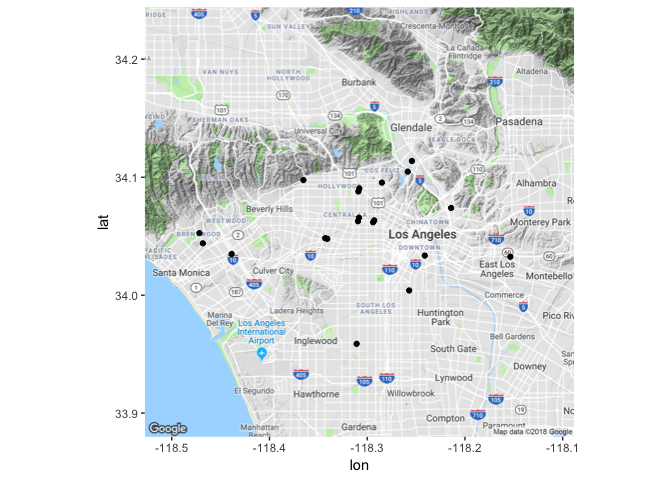
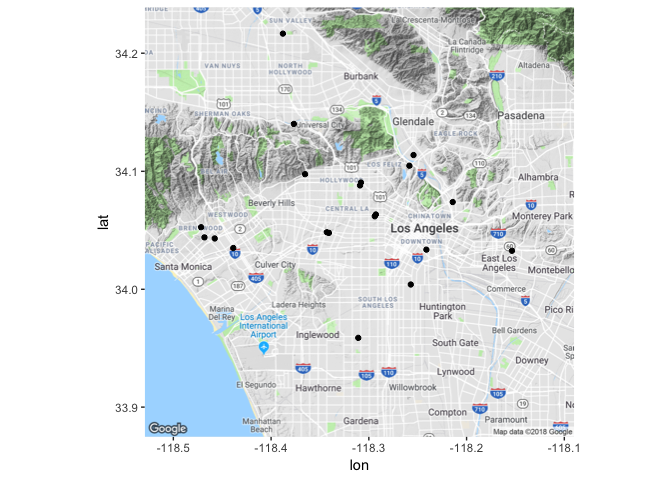
more cleanup

diff --git a/README.md b/README.md
@@ -61,31 +61,31 @@ salons_in_la <- business_search("beauty salon", "los angeles")
 glimpse(salons_in_la)
 #> Observations: 20
 #> Variables: 25
-#> $ id               <chr> "XNcjEN9M2kjChBaJioE3eQ", "yII2VaCD9MnKmNKqEz...
-#> $ alias            <chr> "margaritas-beauty-salon-los-angeles-3", "bri...
-#> $ name             <chr> "Margarita's Beauty Salon", "Brianna's Beauty...
-#> $ rating           <dbl> 3.5, 5.0, 4.5, 5.0, 5.0, 5.0, 4.0, 3.5, 5.0, ...
-#> $ review_count     <int> 24, 5, 7, 4, 92, 4, 7, 11, 9, 23, 7, 16, 297,...
-#> $ price            <chr> "$", "$", "$$", "$$", "$$", "$$", "$", "$", "...
-#> $ image_url        <chr> "https://s3-media2.fl.yelpcdn.com/bphoto/uXL5...
+#> $ business_id      <chr> "whbjQu04BvffC11CZfGEzA", "XNcjEN9M2kjChBaJio...
+#> $ alias            <chr> "magys-beauty-salon-los-angeles-2", "margarit...
+#> $ name             <chr> "Magys Beauty Salon", "Margarita's Beauty Sal...
+#> $ rating           <ord> 4.5, 3.5, 5, 5, 4.5, 5, 5, 5, 4, 3.5, 5, 5, 4...
+#> $ review_count     <int> 8, 23, 5, 48, 7, 4, 92, 4, 7, 11, 9, 9, 7, 24...
+#> $ price            <chr> "$$", "$", "$", "$$", "$$", "$$", "$$", "$$",...
+#> $ image_url        <chr> "https://s3-media4.fl.yelpcdn.com/bphoto/ZHK2...
 #> $ is_closed        <lgl> FALSE, FALSE, FALSE, FALSE, FALSE, FALSE, FAL...
-#> $ url              <chr> "https://www.yelp.com/biz/margaritas-beauty-s...
-#> $ category_aliases <list> ["hair", <"hair", "waxing", "eyelashservice"...
-#> $ category_titles  <list> ["Hair Salons", <"Hair Salons", "Waxing", "E...
-#> $ latitude         <dbl> 34.03502, 34.08803, 34.04836, 34.09760, 34.06...
-#> $ longitude        <dbl> -118.4387, -118.3090, -118.3430, -118.3652, -...
-#> $ distance_m       <dbl> 11200.409, 3156.545, 2464.888, 5687.579, 2641...
+#> $ url              <chr> "https://www.yelp.com/biz/magys-beauty-salon-...
+#> $ category_aliases <list> [<"hair", "hairremoval", "personalcare">, "h...
+#> $ category_titles  <list> [<"Hair Salons", "Hair Removal", "Personal C...
+#> $ latitude         <dbl> 34.21657, 34.03502, 34.08803, 34.04309, 34.04...
+#> $ longitude        <dbl> -118.3879, -118.4387, -118.3090, -118.4577, -...
+#> $ distance_m       <dbl> 18310.313, 11200.409, 3156.545, 11852.204, 24...
 #> $ transactions     <list> [<>, <>, <>, <>, <>, <>, <>, <>, <>, <>, <>,...
-#> $ address1         <chr> "2403 Sawtelle Blvd", "968 N Western Ave", "4...
-#> $ address2         <chr> "", "", "Ste B", "Ste B-200", "Fl 2", "Sola S...
-#> $ address3         <chr> "", "", "", "", "", "Ste 102, Studio 5", "", ...
+#> $ address1         <chr> "8031 Lankershim Blvd", "2403 Sawtelle Blvd",...
+#> $ address2         <chr> "", "", "", "", "Ste B", "Ste B-200", "Fl 2",...
+#> $ address3         <chr> "", "", "", "", "", "", "", "Ste 102, Studio ...
 #> $ city             <chr> "Los Angeles", "Los Angeles", "Los Angeles", ...
-#> $ zip_code         <chr> "90064", "90029", "90019", "90046", "90005", ...
+#> $ zip_code         <chr> "91605", "90064", "90029", "90025", "90019", ...
 #> $ state            <chr> "CA", "CA", "CA", "CA", "CA", "CA", "CA", "CA...
 #> $ country          <chr> "US", "US", "US", "US", "US", "US", "US", "US...
-#> $ display_address  <chr> "2403 Sawtelle Blvd, Los Angeles, CA 90064", ...
-#> $ phone            <chr> "+13104770119", "+13238484188", "+13239367830...
-#> $ display_phone    <chr> "(310) 477-0119", "(323) 848-4188", "(323) 93...
+#> $ display_address  <chr> "8031 Lankershim Blvd, Los Angeles, CA 91605"...
+#> $ phone            <chr> "+18187436944", "+13104770119", "+13238484188...
+#> $ display_phone    <chr> "(818) 743-6944", "(310) 477-0119", "(323) 84...
 ```
 
 The results include the longitude and latitude of each business, so you can use [*ggmap*](https://cran.r-project.org/web/packages/ggmap) to plot their locations.
@@ -96,7 +96,7 @@ library(magrittr)
 la <- salons_in_la %$%
   c(median(longitude), median(latitude))
 la_map <- get_map(la, zoom = 11)
-#> Source : https://maps.googleapis.com/maps/api/staticmap?center=34.062317,-118.308265&zoom=11&size=640x640&scale=2&maptype=terrain&language=en-EN
+#> Source : https://maps.googleapis.com/maps/api/staticmap?center=34.057281,-118.309928&zoom=11&size=640x640&scale=2&maptype=terrain&language=en-EN
 (map_plot_of_salons_in_la <- ggmap(la_map) + 
   geom_point(aes(longitude, latitude), data = salons_in_la)
 )
@@ -108,102 +108,138 @@ la_map <- get_map(la, zoom = 11)
 
 ![Map of Los Angeles, with businesses marked as points.](man/figures/README-ggmap-1.png)
 -->
-Once you have spotted an interesting business, make a note of the business ID from the `id` column as it is required as an argument for several of the other functions.
+You can use standard `dplyr` tools to filter for businesses that are interesting to you.
 
 ``` r
-arianna_hair_boutique_id <- salons_in_la %>% 
-  filter(name == "Arianna Hair Boutique") %>% 
-  pull(id)
+five_stars_and_cheap <- salons_in_la %>% 
+  filter(rating == 5, price == "$") 
 ```
 
-You can use the business ID with the `business_lookup()` to get more detailed information about that business, including opening hours.
+`business_lookup()` gives you more detailed information about businesses, including opening hours. It costs 1 API call per business, so do your filtering before you call it.
 
 ``` r
-arianna_hair_boutique_details <- business_lookup(arianna_hair_boutique_id)
-glimpse(arianna_hair_boutique_details)
-#> Observations: 1
-#> Variables: 29
-#> $ id                    <chr> "4gV99Gc24G3ZGOwZfwPh4g"
-#> $ alias                 <chr> "arianna-hair-boutique-los-angeles"
-#> $ name                  <chr> "Arianna Hair Boutique"
-#> $ rating                <dbl> 4.5
-#> $ review_count          <int> 297
-#> $ price                 <chr> "$$"
-#> $ image_url             <chr> "https://s3-media1.fl.yelpcdn.com/bphoto...
-#> $ is_closed             <lgl> FALSE
-#> $ url                   <chr> "https://www.yelp.com/biz/arianna-hair-b...
-#> $ category_aliases      <list> [<"hair", "eyelashservice", "othersalon...
-#> $ category_titles       <list> [<"Hair Salons", "Eyelash Service", "Na...
-#> $ latitude              <dbl> 34.0619
-#> $ longitude             <dbl> -118.2939
-#> $ distance_m            <dbl> NA
-#> $ transactions          <list> [<>]
-#> $ address1              <chr> "3287 Wilshire Blvd"
-#> $ address2              <chr> ""
-#> $ address3              <chr> ""
-#> $ city                  <chr> "Los Angeles"
-#> $ zip_code              <chr> "90010"
-#> $ state                 <chr> "CA"
-#> $ country               <chr> "US"
-#> $ display_address       <chr> "3287 Wilshire Blvd, Los Angeles, CA 90010"
-#> $ phone                 <chr> "+12137360481"
-#> $ display_phone         <chr> "(213) 736-0481"
-#> $ photos                <list> [["https://s3-media1.fl.yelpcdn.com/bph...
-#> $ is_claimed            <lgl> TRUE
-#> $ is_permanently_closed <lgl> FALSE
+five_stars_and_cheap_details <- business_lookup(five_stars_and_cheap)
+glimpse(five_stars_and_cheap_details)
+#> Observations: 3
+#> Variables: 30
+#> $ business_id           <chr> "1", "2", "3"
+#> $ business_id           <chr> "yII2VaCD9MnKmNKqEzOY0w", "NMkt-I3OhC_bR...
+#> $ alias                 <chr> "briannas-beauty-salon-los-angeles-2", "...
+#> $ name                  <chr> "Brianna's Beauty Salon", "Hair by Laure...
+#> $ rating                <ord> 5, 5, 5
+#> $ review_count          <int> 5, 9, 23
+#> $ price                 <chr> "$", "$", "$"
+#> $ image_url             <chr> "https://s3-media2.fl.yelpcdn.com/bphoto...
+#> $ is_closed             <lgl> FALSE, FALSE, FALSE
+#> $ url                   <chr> "https://www.yelp.com/biz/briannas-beaut...
+#> $ category_aliases      <list> [<"hair", "waxing", "eyelashservice">, ...
+#> $ category_titles       <list> [<"Hair Salons", "Waxing", "Eyelash Ser...
+#> $ latitude              <dbl> 34.08803, 33.95879, 34.11381
+#> $ longitude             <dbl> -118.3090, -118.3108, -118.2543
+#> $ distance_m            <dbl> NA, NA, NA
+#> $ transactions          <list> [<>, <>, <>]
+#> $ address1              <chr> "968 N Western Ave", "1848 W 87th St", "...
+#> $ address2              <chr> "", "", ""
+#> $ address3              <chr> "", "", ""
+#> $ city                  <chr> "Los Angeles", "Los Angeles", "Los Angeles"
+#> $ zip_code              <chr> "90029", "90047", "90039"
+#> $ state                 <chr> "CA", "CA", "CA"
+#> $ country               <chr> "US", "US", "US"
+#> $ display_address       <chr> "968 N Western Ave, Los Angeles, CA 9002...
+#> $ phone                 <chr> "+13238484188", "+12132558085", "+132366...
+#> $ display_phone         <chr> "(323) 848-4188", "(213) 255-8085", "(32...
+#> $ photos                <list> [["https://s3-media2.fl.yelpcdn.com/bph...
+#> $ is_claimed            <lgl> TRUE, TRUE, TRUE
+#> $ is_permanently_closed <lgl> FALSE, FALSE, FALSE
 #> $ opening_hours         <list> [<# A tibble: 7 x 4,   start_day start_...
-arianna_hair_boutique_details$opening_hours
+five_stars_and_cheap_details$opening_hours
 #> [[1]]
 #> # A tibble: 7 x 4
 #>   start_day start_time end_day   end_time
 #>   <chr>     <chr>      <chr>     <chr>   
-#> 1 Monday    1000       Monday    2200    
-#> 2 Tuesday   1000       Tuesday   2200    
-#> 3 Wednesday 1000       Wednesday 2200    
-#> 4 Thursday  1000       Thursday  2200    
-#> 5 Friday    1000       Friday    2200    
-#> 6 Saturday  1000       Saturday  1900    
-#> 7 Sunday    1200       Sunday    1800
+#> 1 Monday    0900       Monday    2100    
+#> 2 Tuesday   0900       Tuesday   2100    
+#> 3 Wednesday 0900       Wednesday 2100    
+#> 4 Thursday  0900       Thursday  2100    
+#> 5 Friday    0900       Friday    2100    
+#> 6 Saturday  0900       Saturday  2100    
+#> 7 Sunday    0900       Sunday    2100    
+#> 
+#> [[2]]
+#> # A tibble: 7 x 4
+#>   start_day start_time end_day   end_time
+#>   <chr>     <chr>      <chr>     <chr>   
+#> 1 Monday    0900       Monday    1900    
+#> 2 Tuesday   1800       Tuesday   2200    
+#> 3 Wednesday 1800       Wednesday 2200    
+#> 4 Thursday  1800       Thursday  2200    
+#> 5 Friday    1800       Friday    2200    
+#> 6 Saturday  1800       Saturday  2200    
+#> 7 Sunday    0900       Sunday    1900    
+#> 
+#> [[3]]
+#> # A tibble: 6 x 4
+#>   start_day start_time end_day   end_time
+#>   <chr>     <chr>      <chr>     <chr>   
+#> 1 Monday    0930       Monday    1830    
+#> 2 Tuesday   0930       Tuesday   1830    
+#> 3 Wednesday 0930       Wednesday 1830    
+#> 4 Thursday  0930       Thursday  1830    
+#> 5 Friday    0930       Friday    1830    
+#> 6 Saturday  0830       Saturday  1830
 ```
 
-You can also use `reviews()` to get reviews of that business.
+You can also use `reviews()` to get reviews of the businesses. Again, it costs 1 API call per business. Also, you are limited to 3 reviews per business, and the text of each is truncated. This is an API limitation, not a problem with this R package.
 
 ``` r
-arianna_hair_boutique_reviews <- reviews(arianna_hair_boutique_id)
-glimpse(arianna_hair_boutique_reviews)
-#> Observations: 3
-#> Variables: 7
-#> $ id             <chr> "tSpuDVsdpBbpw96eNe6EDw", "rtuIb6e1dtTq-wzY4pst...
-#> $ rating         <int> 5, 5, 5
-#> $ text           <chr> "I love this place. Not only is it walking dist...
-#> $ time_created   <chr> "2018-08-07 22:48:44", "2018-08-06 18:54:27", "...
-#> $ url            <chr> "https://www.yelp.com/biz/arianna-hair-boutique...
-#> $ user_image_url <chr> "https://s3-media4.fl.yelpcdn.com/photo/4EA-Nlq...
-#> $ user_name      <chr> "Mel D.", "Jess M.", "Nicole L."
+five_stars_and_cheap_reviews <- reviews(five_stars_and_cheap)
+glimpse(five_stars_and_cheap_reviews)
+#> Observations: 9
+#> Variables: 8
+#> $ business_id    <chr> "1", "1", "1", "2", "2", "2", "3", "3", "3"
+#> $ review_id      <chr> "I31QLakCUD999rTygBTFDA", "XhjsOuc2tAJ21Lh3ypsJ...
+#> $ rating         <ord> 5, 4, 5, 5, 5, 5, 5, 5, 5
+#> $ text           <chr> "their work is so detailed and they take their ...
+#> $ time_created   <chr> "2018-04-27 19:41:09", "2018-09-03 17:53:08", "...
+#> $ url            <chr> "https://www.yelp.com/biz/briannas-beauty-salon...
+#> $ user_image_url <chr> "https://s3-media1.fl.yelpcdn.com/photo/bkpdbSB...
+#> $ user_name      <chr> "Roy S.", "Rida Q.", "Sidney T.", "Keni G.", "B...
 ```
 
-These can be used with the [*tidytext*](https://cran.r-project.org/web/packages/tidytext) package to perform a sentiment analysis.
+In theory, these can be used with the [*tidytext*](https://cran.r-project.org/web/packages/tidytext) package to perform a sentiment analysis, though the limited amount of text is a problem.
 
 ``` r
 library(tidytext)
-(arianna_hair_boutique_sentiments <- arianna_hair_boutique_reviews %>% 
-  select(id, rating, text) %>% 
+(five_stars_and_cheap_sentiments <- five_stars_and_cheap_reviews %>% 
+  select(business_id, review_id, rating, text) %>% 
   unnest_tokens(word, text) %>% 
   anti_join(get_stopwords(), by = "word") %>% 
   inner_join(get_sentiments("bing"))
 )
 #> Joining, by = "word"
-#> # A tibble: 8 x 4
-#>   id                     rating word         sentiment
-#>   <chr>                   <int> <chr>        <chr>    
-#> 1 tSpuDVsdpBbpw96eNe6EDw      5 love         positive 
-#> 2 tSpuDVsdpBbpw96eNe6EDw      5 awesome      positive 
-#> 3 tSpuDVsdpBbpw96eNe6EDw      5 great        positive 
-#> 4 rtuIb6e1dtTq-wzY4pstjg      5 disappointed negative 
-#> 5 rtuIb6e1dtTq-wzY4pstjg      5 right        positive 
-#> 6 0N02C-h3XHFU9pra0BOYNg      5 hail         positive 
-#> 7 0N02C-h3XHFU9pra0BOYNg      5 wonder       positive 
-#> 8 0N02C-h3XHFU9pra0BOYNg      5 magic        positive
+#> # A tibble: 20 x 5
+#>    business_id review_id              rating word        sentiment
+#>    <chr>       <chr>                  <ord>  <chr>       <chr>    
+#>  1 1           I31QLakCUD999rTygBTFDA 5      work        positive 
+#>  2 1           I31QLakCUD999rTygBTFDA 5      like        positive 
+#>  3 1           XhjsOuc2tAJ21Lh3ypsJIQ 4      fast        positive 
+#>  4 1           XhjsOuc2tAJ21Lh3ypsJIQ 4      clean       positive 
+#>  5 1           XhjsOuc2tAJ21Lh3ypsJIQ 4      affordable  positive 
+#>  6 1           eSPWyeP6Tv5Whj0hvdNviw 5      recommended positive 
+#>  7 1           eSPWyeP6Tv5Whj0hvdNviw 5      impressed   positive 
+#>  8 1           eSPWyeP6Tv5Whj0hvdNviw 5      amazing     positive 
+#>  9 1           eSPWyeP6Tv5Whj0hvdNviw 5      work        positive 
+#> 10 2           QlYjqYsEQELBJmoNWEqtCw 5      promised    positive 
+#> 11 2           QlYjqYsEQELBJmoNWEqtCw 5      happy       positive 
+#> 12 2           mPy1Uan2-xxh8AXSv8BtoQ 5      best        positive 
+#> 13 2           3itCHdIXCnemcPtC9I674w 5      great       positive 
+#> 14 2           3itCHdIXCnemcPtC9I674w 5      polite      positive 
+#> 15 2           3itCHdIXCnemcPtC9I674w 5      nice        positive 
+#> 16 2           3itCHdIXCnemcPtC9I674w 5      loved       positive 
+#> 17 3           yGRC3iVbIXjYQ855ujm82g 5      love        positive 
+#> 18 3           yGRC3iVbIXjYQ855ujm82g 5      sweet       positive 
+#> 19 3           vBtH60Bd0t2QHsesPSPTwQ 5      amazing     positive 
+#> 20 3           vBtH60Bd0t2QHsesPSPTwQ 5      great       positive
 ```
 
 There are some other functions with more niche usage.
